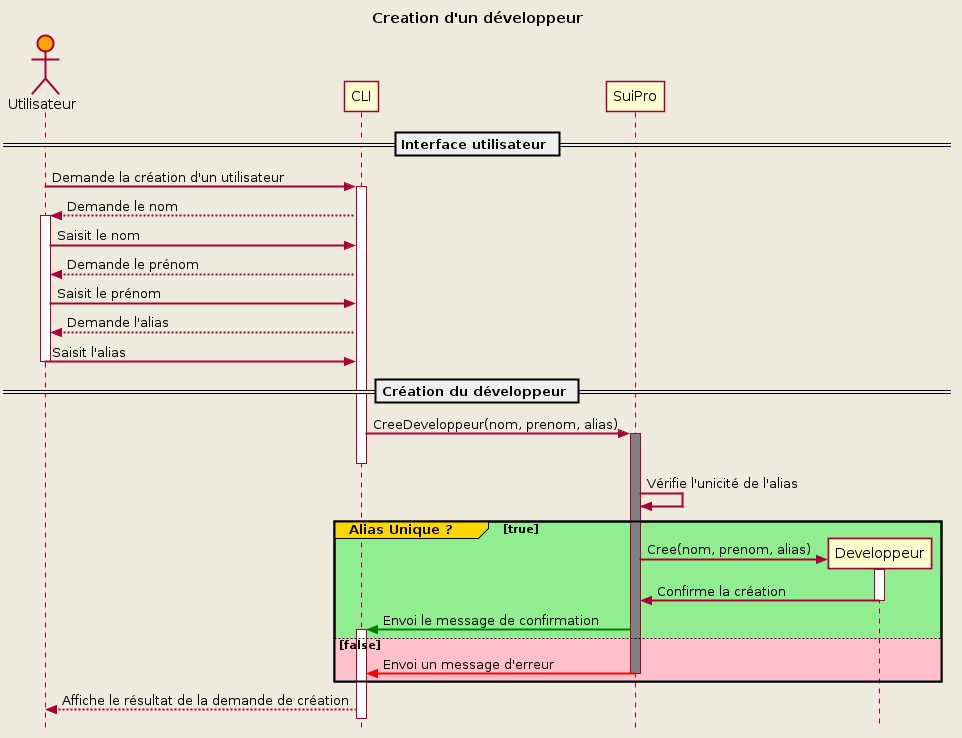
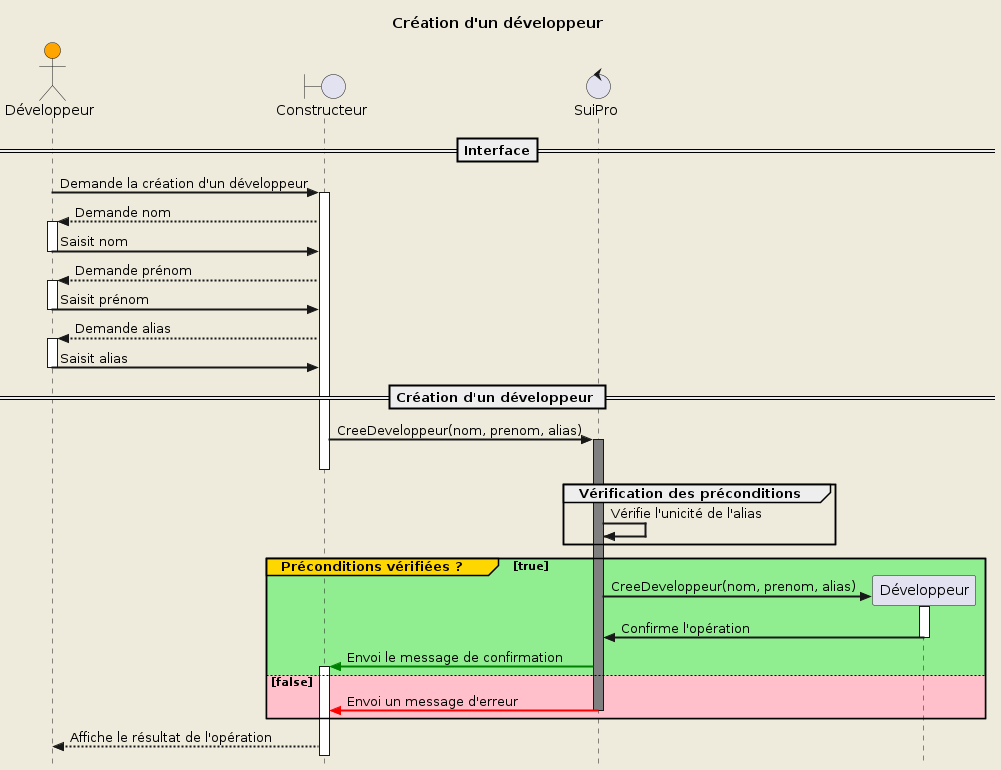
Add seq diagrams for 5 UC

diff --git a/Modelisation/UC/UCs/UC (3).md b/Modelisation/UC/UCs/UC (3).md
@@ -6,10 +6,10 @@
 
 - Nom fourni
 - Id fourni
-- Id unique
 - Activité fournie
 - Activité existante
 - Activité active
+- Id unique
 
 #### Postconditions:
 
@@ -30,13 +30,50 @@
 | ---------------------- | --- | --- | --- | --- | --- | --- | --- |
 | _Nom fourni_           | Non | Oui | Oui | Oui | Oui | Oui | Oui |
 | _Id fourni_            |     | Non | Oui | Oui | Oui | Oui | Oui |
-| _Id unique_            |     |     | Non | Oui | Oui | Oui | Oui |
-| _Activité fournie_     |     |     |     | Non | Oui | Oui | Oui |
-| _Activité existante_   |     |     |     |     | Non | Oui | Oui |
-| _Activité active_      |     |     |     |     |     | Non | Oui |
+| _Activité fournie_     |     |     | Non | Oui | Oui | Oui | Oui |
+| _Activité existante_   |     |     |     | Non | Oui | Oui | Oui |
+| _Activité active_      |     |     |     |     | Non | Oui | Oui |
+| _Id unique_            |     |     |     |     |     | Non | Oui |
 | **Postconditions**     |     |     |     |     |     |     |     |
 | _Création d'une tâche_ | Non | Non | Non | Non | Non | Non | Oui |
 | _Message d'erreur_     | Oui | Oui | Oui | Oui | Oui | Oui | Non |
 | **Nombre de tests**    | 1   | 1   | 1   | 1   | 1   | 1   | 1   |
 
 #### Tests `7`:
+
+> TODO
+
+#### Diagramme de séquence:
+
+<div hidden>
+
+```plantuml
+@startuml UC3
+
+!include diag_seq_template.iuml
+
+!$schema = {
+    "entity": "Tâche",
+    "name": "Création d'une tâche",
+    "demande": "Demande la création d'une tâche",
+    "create": "CreeTache(nom, id, activite)",
+    "requirements": [
+        "nom",
+        "id",
+        "activite"
+    ],
+    "preconditions": [
+        "Vérifie l'unicité de l'id",
+        "Vérifie l'existence de l'activité",
+        "Vérifie que l'activité est active"
+    ]
+}
+
+Draw($schema)
+
+@enduml
+```
+
+</div>
+
+![UC3](../Diagrammes/Seq/UC3.png)

diff --git a/Modelisation/UC/UCs/UC (4).md b/Modelisation/UC/UCs/UC (4).md
@@ -10,9 +10,9 @@
 - Tâche fournie
 - Tâche existante
 - Tâche active
-- Développeur fourni
-- Développeur existant
-- Développeur actif
+- Développeur(s) fourni(s)
+- Développeur(s) existant(s)
+- Développeur(s) actif(s)
 - Pas de chevauchement avec une autre période de travail
 
 #### Postconditions:
@@ -25,7 +25,7 @@
 - Saisie du début
 - Saisie de la fin
 - Saisie de la tâche
-- Saisie du développeur
+- Saisie du/des développeur(s)
 - Création de la période de travail
 - Message de confirmation
 
@@ -49,3 +49,44 @@
 | **Nombre de tests**                                      | 1   | 1   | 1   | 1   | 1   | 1   | 2   | 2   | 2   | 2   | 2   |
 
 #### Tests `16`:
+
+> TODO
+
+#### Diagramme de séquence:
+
+<div hidden>
+
+```plantuml
+@startuml UC4
+
+!include diag_seq_template.iuml
+
+!$schema = {
+    "entity": "PériodeDeTravail",
+    "name": "Créer une période de travail",
+    "demande": "Demande la création d'une période de travail",
+    "create": "CreePeriodeTravail(debut, fin, tache, developpeurs)",
+    "requirements": [
+        "début",
+        "fin",
+        "tâche",
+        "développeur(s)"
+    ],
+    "preconditions": [
+        "Vérifie que le début est plus petit que la fin",
+        "Vérifie l'existance de la tâche",
+        "Vérifie que la tâche est active",
+        "Vérifie l'existance du/des développeur(s)",
+        "Vérifie que le/des développeur(s) est/sont actif(s)",
+        "Vérifie le chevauchement avec une autre période de travail"
+    ]
+}
+
+Draw($schema)
+
+@enduml
+```
+
+</div>
+
+![UC4](../Diagrammes/Seq/UC4.png)

diff --git a/Modelisation/UC/UCs/UC (1).md b/Modelisation/UC/UCs/UC (1).md
@@ -51,42 +51,24 @@
 ```plantuml
 @startuml UC1
 
-title Creation d'un développeur
+!include diag_seq_template.iuml
 
-skinparam style strictuml
-skinparam sequenceArrowThickness 2
-skinparam backgroundColor #EEEBDC
+!$schema = {
+    "entity": "Développeur",
+    "name": "Création d'un développeur",
+    "demande": "Demande la création d'un développeur",
+    "create": "CreeDeveloppeur(nom, prenom, alias)",
+    "requirements": [
+        "nom",
+        "prénom",
+        "alias"
+    ],
+    "preconditions": [
+        "Vérifie l'unicité de l'alias"
+    ]
+}
 
-actor Utilisateur #Orange
-
-== Interface utilisateur ==
-
-Utilisateur -> CLI : Demande la création d'un utilisateur
-activate CLI
-CLI --> Utilisateur ++ : Demande le nom
-Utilisateur -> CLI : Saisit le nom
-CLI --> Utilisateur : Demande le prénom
-Utilisateur -> CLI : Saisit le prénom
-CLI --> Utilisateur : Demande l'alias
-Utilisateur -> CLI -- : Saisit l'alias
-
-== Création du développeur ==
-
-CLI -> SuiPro : CreeDeveloppeur(nom, prenom, alias)
-activate SuiPro #Gray
-deactivate CLI
-SuiPro -> SuiPro : Vérifie l'unicité de l'alias
-group#Gold #LightGreen Alias Unique ? [true]
-SuiPro -> Developpeur ** : Cree(nom, prenom, alias)
-activate Developpeur
-Developpeur -> SuiPro -- : Confirme la création
-SuiPro -[#Green]> CLI ++ : Envoi le message de confirmation
-else #Pink false
-SuiPro -[#Red]> CLI : Envoi un message d'erreur
-deactivate SuiPro
-end
-
-CLI --> Utilisateur : Affiche le résultat de la demande de création
+Draw($schema)
 
 @enduml
 

diff --git a/Modelisation/UC/UCs/UC (2).md b/Modelisation/UC/UCs/UC (2).md
@@ -44,40 +44,23 @@
 ```plantuml
 @startuml UC2
 
-title Création d'une activité
+!include diag_seq_template.iuml
 
-skinparam style strictuml
-skinparam sequenceArrowThickness 2
-skinparam backgroundColor #EEEBDC
+!$schema = {
+    "entity": "Activité",
+    "name": "Création d'une activité",
+    "demande": "Demande la création d'une activité",
+    "create": "CreeActivite(nom, id)",
+    "requirements": [
+        "nom",
+        "id"
+    ],
+    "preconditions": [
+        "Vérifie l'unicité de l'id"
+    ]
+}
 
-actor Utilisateur #Orange
-
-== Interface utilisateur ==
-
-Utilisateur -> CLI : Demande la création d'une activité
-activate CLI
-CLI --> Utilisateur ++ : Demande le nom
-Utilisateur -> CLI : Saisit le nom
-CLI --> Utilisateur : Demande l'id
-Utilisateur -> CLI -- : Saisit l'id
-
-== Création de l'activité ==
-
-CLI -> SuiPro : CreeActivite(nom, id)
-activate SuiPro #Gray
-deactivate CLI
-SuiPro -> SuiPro : Vérifie l'unicité de l'id
-group#Gold #LightGreen Id Unique ? [true]
-SuiPro -> Activite ** : Cree(nom, id)
-activate Activite
-Activite -> SuiPro -- : Confirme la création
-SuiPro -[#Green]> CLI ++ : Envoie le message de confirmation
-else #Pink false
-SuiPro -[#Red]> CLI : Envoie un message d'erreur
-deactivate SuiPro
-end
-
-CLI --> Utilisateur : Affiche le résultat de la demande de création
+Draw($schema)
 
 @enduml
 ```

diff --git a/Modelisation/UC/UCs/UC (5).md b/Modelisation/UC/UCs/UC (5).md
@@ -36,3 +36,43 @@
 > Pour le cas `4`, il faut aussi tester un développeur sans période de travail.
 
 #### Tests `5`:
+
+> TODO
+
+#### Diagramme de séquence:
+
+<div hidden>
+
+```plantuml
+@startuml UC5
+
+!include diag_seq_template.iuml
+
+!$schema = {
+    "entity": "Développeur",
+    "name": "Mettre un développeur à la corbeille",
+    "demande": "Demander la mise à la corbeille d'un développeur",
+    "create": "mettreDeveloppeurALaCorbeille(developpeur)",
+    "requirements": [
+        "developpeur"
+    ],
+    "preconditions": [
+        "Vérifier que le développeur fourni existe",
+        "Vérifier que le développeur est actif"
+    ],
+    "postconditions": [
+        {
+            "entity": "PériodeDeTravail",
+            "name": "mettreALaCorbeille"
+        }
+    ]
+}
+
+Draw($schema)
+
+@enduml
+```
+
+</div>
+
+![UC5](../Diagrammes/Seq/UC5.png)
